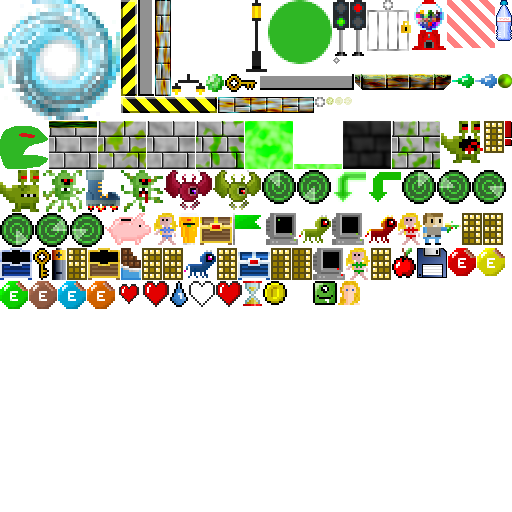
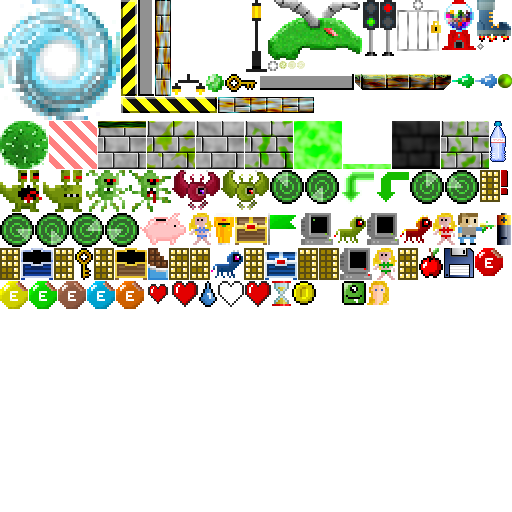
Snake boss tweaks.

Changed region(s): [[0.0, 0.1875, 1.0, 0.625], [0.5, 0.0, 1.0, 0.1562]]

diff --git a/src/entities/snakeBoss.c b/src/entities/snakeBoss.c
@@ -46,7 +46,6 @@ static int shotsToFire;
 static int reload;
 static int shotType;
 static int hitTimer;
-static int angle;
 
 /* This boss is hard-coded to the layout of stage 14. */
 void initSnakeBoss(Entity *e)
@@ -266,13 +265,13 @@ static void draw(void)
 {
 	if (hitTimer == 0)
 	{
-		blitAtlasImageRotated(self->atlasImage, self->x - world.camera.x, self->y - world.camera.y, angle, self->facing == FACING_LEFT ? SDL_FLIP_HORIZONTAL : SDL_FLIP_NONE);
+		blitAtlasImage(self->atlasImage, self->x - world.camera.x, self->y - world.camera.y, 0, self->facing == FACING_LEFT ? SDL_FLIP_HORIZONTAL : SDL_FLIP_NONE);
 	}
 	else
 	{
 		SDL_SetTextureColorMod(self->atlasImage->texture, 255, 255 - hitTimer, 255 - hitTimer);
 
-		blitAtlasImageRotated(self->atlasImage, self->x - world.camera.x, self->y - world.camera.y, angle, self->facing == FACING_LEFT ? SDL_FLIP_HORIZONTAL : SDL_FLIP_NONE);
+		blitAtlasImage(self->atlasImage, self->x - world.camera.x, self->y - world.camera.y, 0, self->facing == FACING_LEFT ? SDL_FLIP_HORIZONTAL : SDL_FLIP_NONE);
 
 		SDL_SetTextureColorMod(self->atlasImage->texture, 255, 255, 255);
 	}
@@ -297,12 +296,15 @@ static void touch(Entity *other)
 static void updateBodyParts(void)
 {
 	int i, sx, sy, steps;
-	float x, y, dx, dy;
+	float x, y, dx, dy, ox, oy;
 
-	calcSlope(head->x, head->y, originFlag->x, originFlag->y, &dx, &dy);
+	ox = head->x + (head->facing ? 64 : -16);
+	oy = head->y - 8;
 
-	sx = abs(head->x - originFlag->x);
-	sy = abs(head->y - originFlag->y);
+	calcSlope(ox, oy, originFlag->x, originFlag->y, &dx, &dy);
+
+	sx = abs(ox - originFlag->x);
+	sy = abs(oy - originFlag->y);
 
 	steps = MAX(sx, sy);
 
@@ -329,8 +331,6 @@ static void updateBodyParts(void)
 
 	/* always face player */
 	self->facing = self->x < world.player->x ? FACING_RIGHT : FACING_LEFT;
-
-	angle = getAngle(self->x, self->y, world.player->x, world.player->y) + (self->facing == FACING_RIGHT ? -90 : 90);
 
 	hitTimer = MAX(hitTimer - 32, 0);
 }

diff --git a/src/entities/snakeBoss.h b/src/entities/snakeBoss.h
@@ -24,7 +24,7 @@ Foundation, Inc., 59 Temple Place - Suite 330, Boston, MA  02111-1307, USA.
 
 extern void activateEntities(char *targetName, int activate);
 extern void addToQuadtree(Entity *e, Quadtree *root);
-extern void blitAtlasImageRotated(AtlasImage *atlasImage, int x, int y, float angle, SDL_RendererFlip flip);
+extern void blitAtlasImage(AtlasImage *atlasImage, int x, int y, int center, SDL_RendererFlip flip);
 extern void calcSlope(int x1, int y1, int x2, int y2, float *dx, float *dy);
 extern Entity *findStartPoint(const char *name);
 extern float getAngle(int x1, int y1, int x2, int y2);

diff --git a/src/world/entities.c b/src/world/entities.c
@@ -596,8 +596,12 @@ void destroyEntities(void)
 
 static int entityComparator(const void *a, const void *b)
 {
+	int r;
+
 	Entity *e1 = *((Entity**)a);
 	Entity *e2 = *((Entity**)b);
 
-	return e2->type - e1->type;
+	r = e2->type - e1->type;
+
+	return r != 0 ? r : e2->id - e1->id;
 }

diff --git a/src/world/stage.c b/src/world/stage.c
@@ -92,7 +92,7 @@ void initStage(int stageId, int wipeType)
 
 	initWipe(wipeType);
 
-	if (!app.dev.editor && stageId != 0)
+	if (!app.dev.editor && stageId != 0 && world.boss == NULL)
 	{
 		stage->visited = 1;
 
